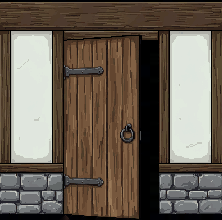
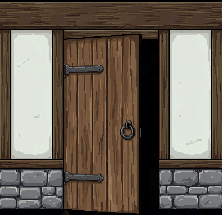
feat(desert): adobe wall pilot (2nd biome) + anim-frame normalize + door-drift fix
Desert is the 2nd biome pilot, proving the tile-corpus token system generalizes past grassland.
- Desert tile-corpus manifest: 4 materials (adobe/mudbrick/sandstone/reed_palm) + the 4 desert tokens
  (mud-brick footing, pointed-arch palm door, mashrabiya lattice window, viga parapet wall-plate).
- adobe ground set generated, processed (surgical corners), QA-clean: smooth adobe + viga parapet +
  mud-brick footing; pointed-arch studded door; mashrabiya window; finished corners. The window failed
  opacity twice (wall blew transparent), so it was reconstructed deterministically (good base + stamped
  mashrabiya) — the QA auto-fix flow, dogfooded live.

Pipeline hardening from the grassland door-lift bug:
- scripts/normalize-anim-frames.mjs: v3 grows the canvas as a door/window opens, so frames end up
  different heights and the renderer's stretch-to-wH drifts the (static) wall/foundation. Normalize every
  frame to the idle frame's size. Fixes the wattle_daub door foundation-lift.
- qa-frames.mjs: detect SIZE_DRIFT (frames not all the idle size) and point at the auto-fix.

diff --git a/docs/superpowers/specs/2026-06-23-desert-tile-corpus-manifest.md b/docs/superpowers/specs/2026-06-23-desert-tile-corpus-manifest.md
@@ -1,0 +1,73 @@
+# Desert Tile Corpus — Manifest (2nd biome pilot)
+
+> The SECOND biome pilot. Validates that the tile-corpus pipeline generalizes past grassland — the structure
+> is identical, ONLY the material vocabulary + the 4 biome tokens change. Inherits everything structural from
+> `2026-06-22-tile-corpus-manifest.md` (the **same 10 states**, ground/upper foundation split, generate-WEST-
+> flip-EAST corners, animate_object door/window motion, mirror-tiling, sizing). This file ONLY specifies the
+> desert-specific values + prompts. Pipeline is now QA-gated: `finish_material.sh` runs the surgical corner
+> post-process then `qa-tiles.mjs` + `qa-frames.mjs` automatically.
+
+## Why desert (pilot choice, user-confirmed 2026-06-23)
+Maximally unlike grassland while still grounded — it forces EVERY biome token to diverge (earthen materials,
+arched recessed door, lattice window, mud-brick footing, flat-roof parapet/vigas instead of a pitched
+dark-oak wall-plate). If the token system survives desert, it survives all 16 biomes.
+
+## Biome tokens (desert) — resolve into the shared BASE + STATE prompts
+- `{FOUNDATION}`: "a low plinth course of darker sun-baked mud-brick, about half a tile high"
+- `{DOOR}`: "a weathered palm-plank door with dark iron studs and a simple ring handle, set in a recessed POINTED-ARCH (keyhole) doorway"
+- `{WINDOW}`: "a small deep-set window filled with a carved wooden mashrabiya lattice screen (geometric fretwork); no shutters"
+- `{WALLPLATE}`: "a horizontal row of projecting wooden viga roof-beam ends beneath a flat tan mud parapet cap"
+
+## Materials (4) — the smooth / coursed / cut / woven spread (mirrors grassland)
+| material | MATERIAL_PHRASE | MATERIAL_FACE (opacity-enforced middle zone) | MATERIAL_EDGE (finished flat vertical wall-END) |
+|---|---|---|---|
+| **adobe** | "adobe" | "a smooth UNIFORM warm tan adobe mud-plaster covering the whole zone as one solid earthen surface — NO holes, NO see-through gaps" | "a finished vertical edge of the SAME tan adobe, gently rounded where the mud render wraps to a clean end — the SAME tan colour as the wall, NOT cream, NOT a different material" |
+| **mudbrick** | "mud-brick" | "tightly-coursed sun-dried tan mud-bricks set in solid earthen mortar that fills every joint — NO holes, NO see-through gaps" | "a neat vertical column of larger interlocking tan mud-brick quoins" |
+| **sandstone** | "sandstone" | "tightly-fitted carved pale-gold sandstone ashlar blocks set in solid pale mortar filling every joint — NO holes, NO gaps" | "a neat vertical column of larger dressed pale-gold sandstone quoin blocks" |
+| **reed_palm** | "reed-and-palm" | "solid woven reed-mat panels packed with tan daub filling every bay between slender palm-wood posts — opaque, no gaps" | "a finished vertical palm-wood corner post capping the end reed-daub panel" |
+
+MATERIAL_DETAIL (for MATERIAL_PHRASE expansion if needed): adobe = "smooth hand-plastered tan adobe with softly
+rounded surfaces and faint sun-cracks"; mudbrick = "coursed rows of sun-dried tan mud-bricks with thin earthen
+joints"; sandstone = "carved pale-gold sandstone ashlar with fine tooled faces"; reed_palm = "woven reed-mat
+daub between slender palm posts".
+
+### v1 VARIANT_PHRASE (desert siblings — subtle, same palette)
+- adobe: "a touch more surface undulation and a few darker sun-baked patches; same palette."
+- mudbrick: "slightly larger, more irregular brick coursing with a few darker bricks; same palette."
+- sandstone: "a different ashlar bond (one taller course) with faint weathering; same palette."
+- reed_palm: "slightly slimmer palm posts and a denser reed weave; same palette."
+
+## BASE prompt (`ground_plain`) — desert-resolved (adobe shown; swap MATERIAL_FACE/PHRASE per material)
+> A seamless one-storey FRONT WALL of an **adobe** desert house, FLAT ORTHOGRAPHIC ELEVATION (straight-on, NOT
+> isometric), exactly 4 tiles wide and 4 tiles tall (a square). THREE fully-opaque horizontal zones, NO
+> transparent gaps anywhere inside the wall:
+> • TOP (cap) — {WALLPLATE}, across the full width.
+> • MIDDLE (the wall face, most of the height) — {MATERIAL_FACE}.
+> • BOTTOM (footing) — {FOUNDATION}.
+> CRITICAL: every pixel inside the wall's rectangle is SOLID OPAQUE wall (the render/mortar FILLS all gaps);
+> there are NO transparent or see-through areas within the wall outline — only the background OUTSIDE the
+> rectangle is transparent. The texture repeats horizontally (left edge ≡ right). NO door, NO windows, NO
+> roof, NO chimney, NO sand, NO ground, NO smoke, NO people, NO text. Clean high-resolution pixel art, single
+> colour outline, detailed shading.
+
+STATE prompts (`ground_window`, `ground_door`, `ground_left_corner`, `upper_*`) reuse the grassland manifest's
+deterministic edits VERBATIM with the desert `{DOOR}/{WINDOW}/{WALLPLATE}/{FOUNDATION}/{MATERIAL_EDGE}` tokens
+substituted (incl. the GLOBAL no-caps-emphasis / "render NO text" rule and the door ground-placement
+enforcement). Door animation prompt: "the palm-plank door swings open inward on its hinge … only the door
+leaf moves" (frame_count=8, v3); the new prompt also names "a plain flat dark interior, no patterns" to avoid
+the zigzag-triangle final-frame glitch that `qa-frames.mjs` caught on grassland.
+
+## Roofs — DEFERRED for the wall pilot (decision pending)
+Desert vernacular is FLAT/parapet-roofed; the procedural roof only does pitched. For the pilot we validate
+desert WALLS first (roof layer off / flush). Adding a flat-roof profile (low parapet, viga shadow line) is a
+follow-up once the walls prove out.
+
+## Execution (vertical slice first)
+1. **adobe v0** end-to-end: 1 `create_1_direction_object` base + 6 `create_object_state` (window, door,
+   left_corner, upper_plain, upper_window, upper_left_corner) + 2 flips (right corners) + 2 animations
+   (door, window). Drop raws into `tools/_round2/` as `desert_adobe__<state>_raw.png` and run
+   `finish_material.sh` (→ surgical corners + auto qa-tiles/qa-frames).
+2. Wire: the renderer resolves materials by biome via the building material catalog — confirm desert →
+   {adobe,mudbrick,sandstone,reed_palm} is registered (see `src/world/lg-catalog.js` / the biome→material map).
+3. Browser-verify one adobe desert building in a desert settlement.
+4. If clean: generate the other 3 materials + every v1, then expand to all biomes.
